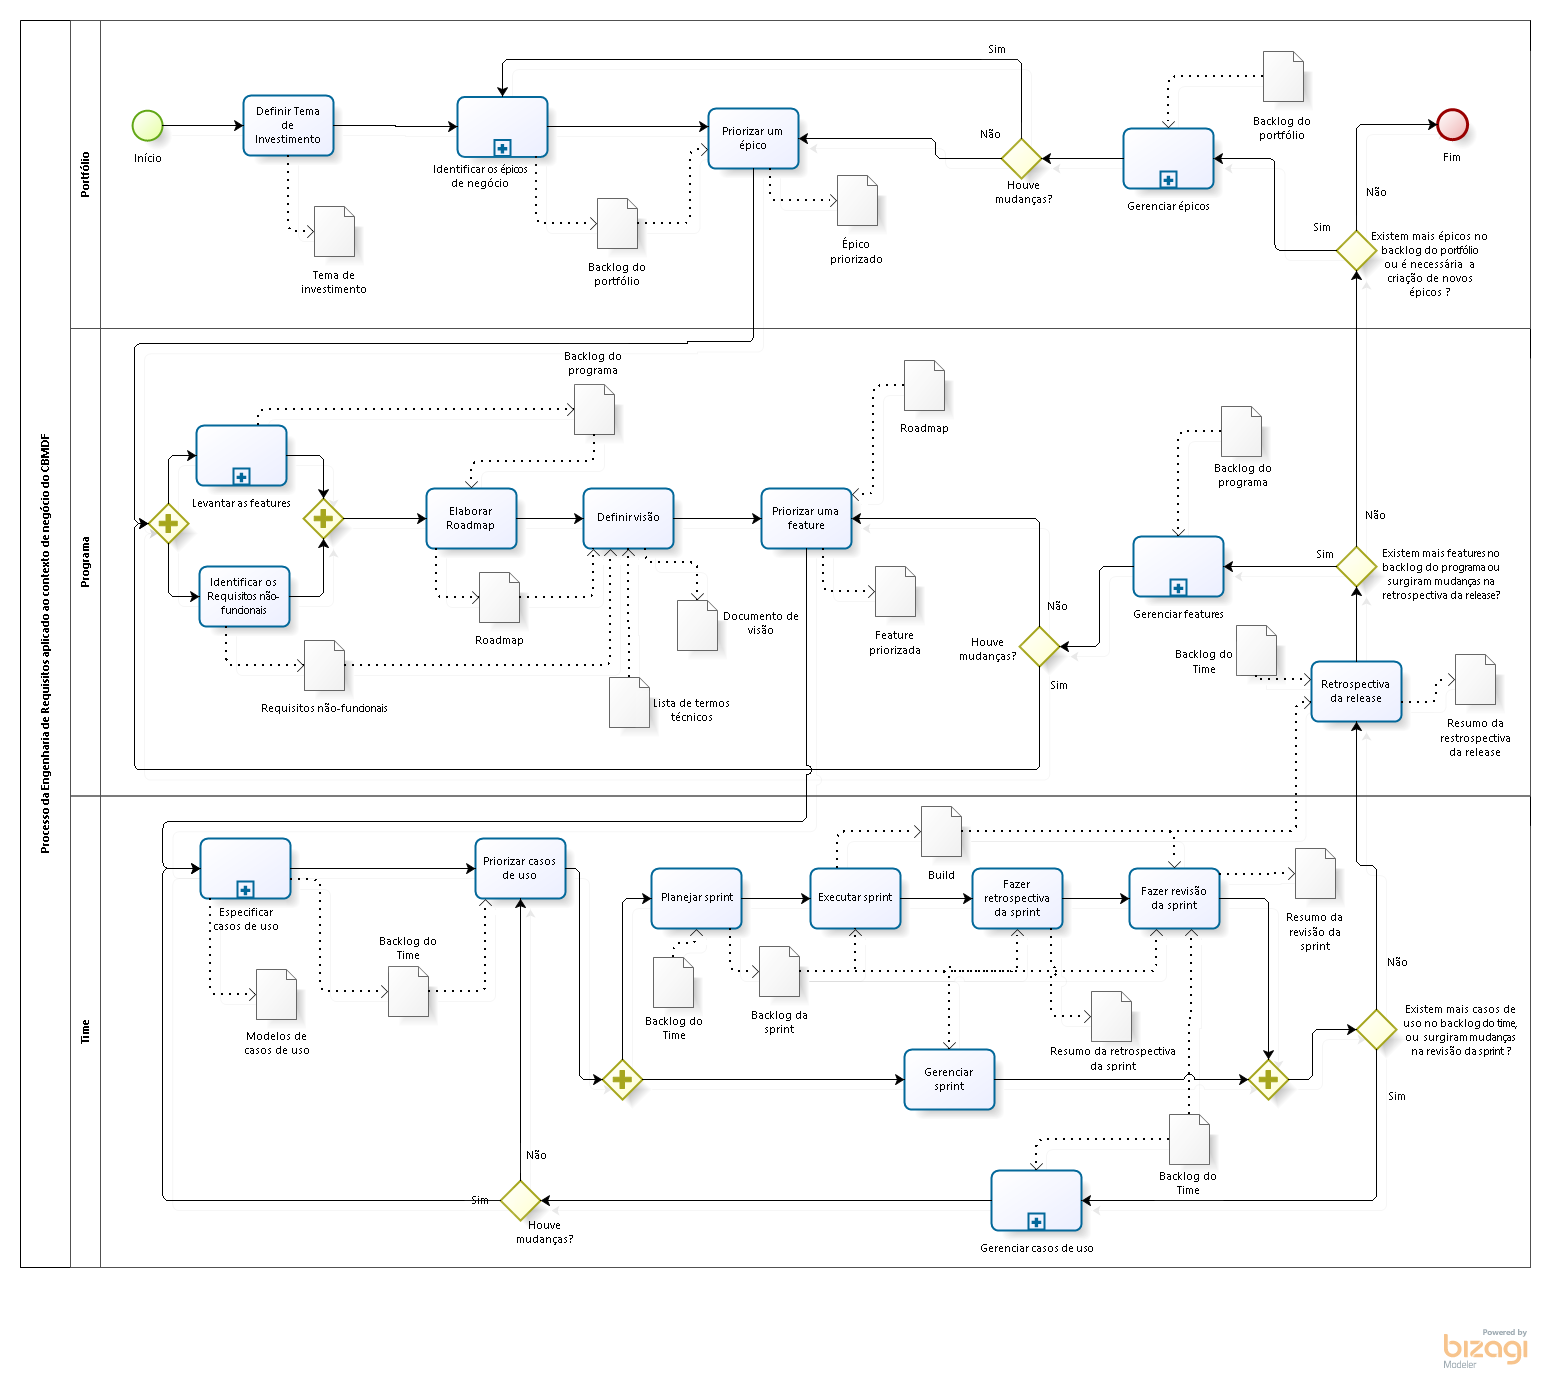
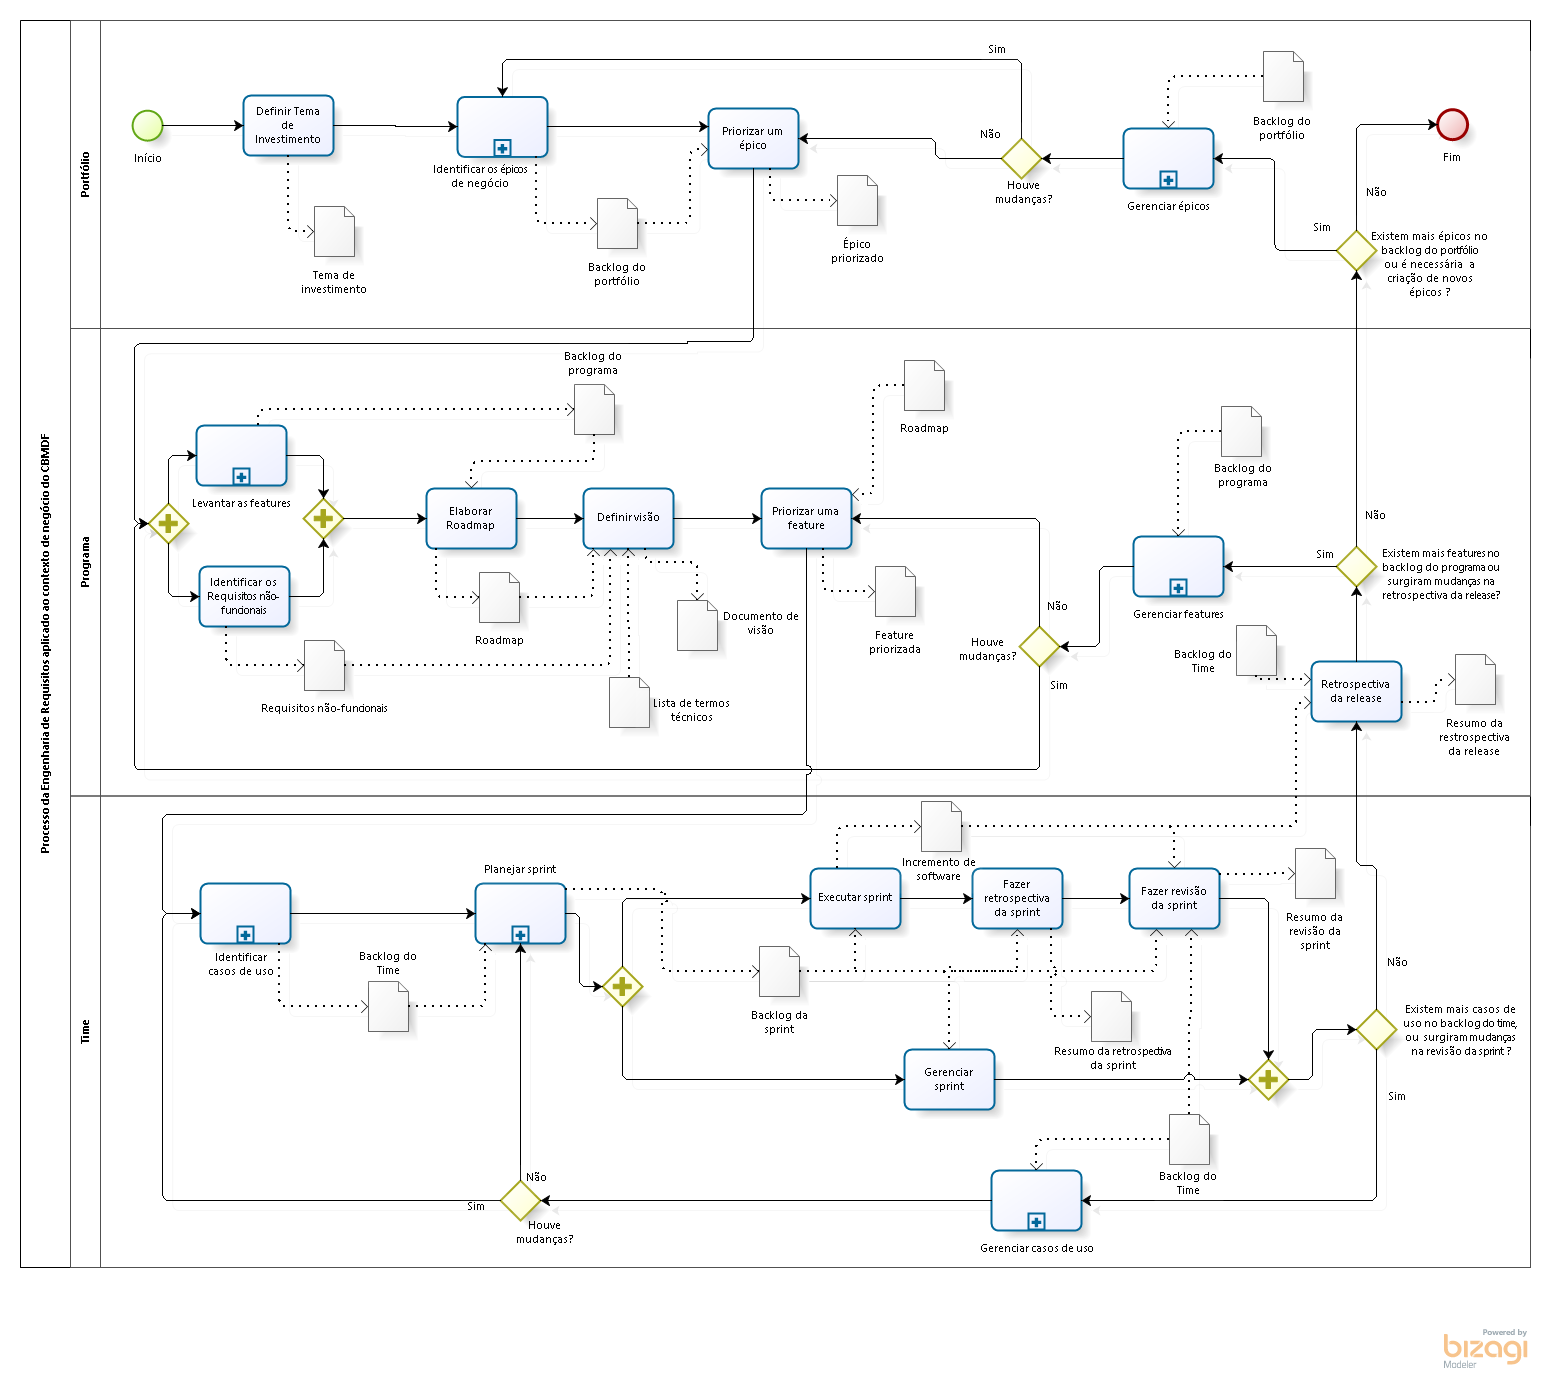
Updating the ER process

diff --git a/editaveis/big_picture_projeto.tex b/editaveis/big_picture_projeto.tex
@@ -31,7 +31,7 @@
       \label{processo_levantar_features}
     \end{figure}
 
-    \pagebreak
+%     \pagebreak
     \begin{figure}[!htbp]
       \centering
       \includegraphics[scale=0.55]{editaveis/figuras/processo_gerenciar_features}
@@ -41,9 +41,16 @@
 
     \begin{figure}[!htbp]
       \centering
-      \includegraphics[scale=0.5]{editaveis/figuras/processo_especificar_casos_uso}
-      \caption[Subprocesso - Especificar casos de uso]{Subprocesso - Especificar casos de uso.}
-      \label{processo_especificar_casos_uso}
+      \includegraphics[scale=0.5]{editaveis/figuras/processo_identificar_casos_uso}
+      \caption[Subprocesso - Identificar casos de uso]{Subprocesso - Identificar casos de uso.}
+      \label{processo_identificar_casos_uso}
+    \end{figure}
+    
+    \begin{figure}[!htbp]
+      \centering
+      \includegraphics[scale=0.5]{editaveis/figuras/processo_planejar_sprint}
+      \caption[Subprocesso - Planejar \textit{Sprint}]{Subprocesso - Planejar \textit{Sprint}.}
+      \label{processo_planejar_sprint}
     \end{figure}
 
     \begin{figure}[!htbp]
